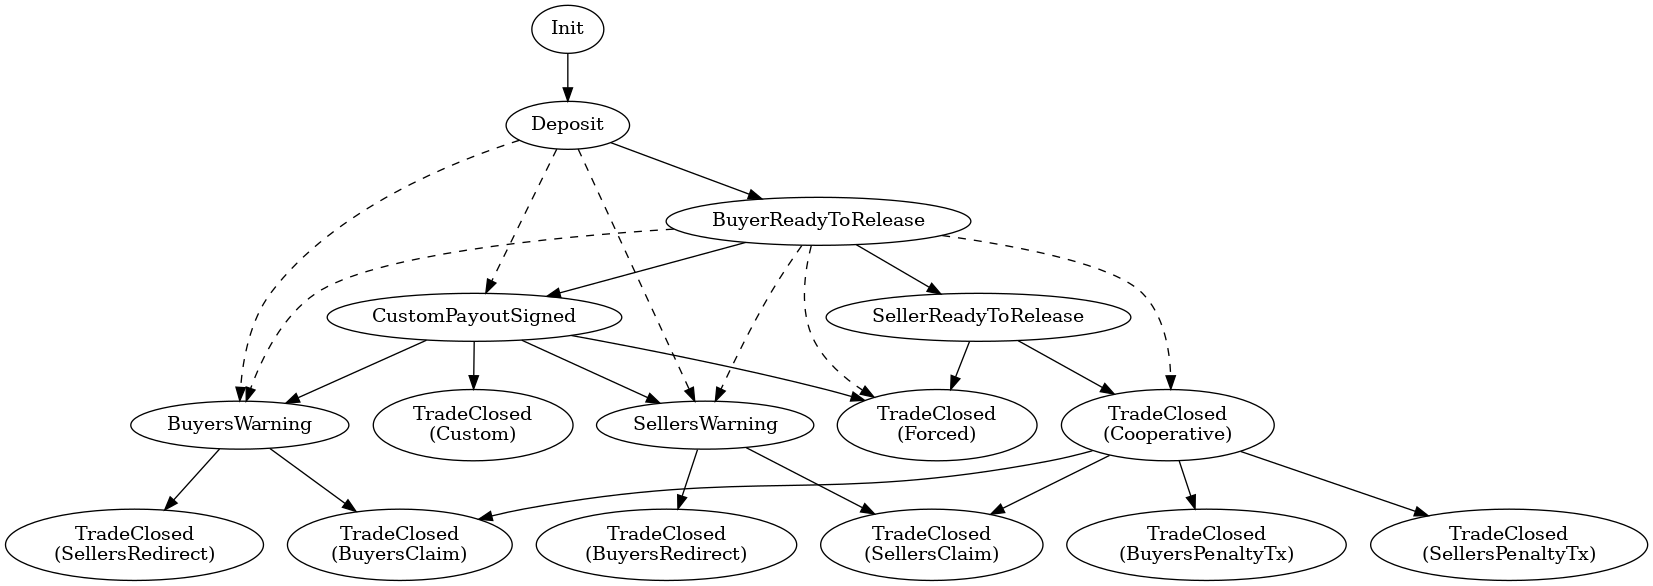
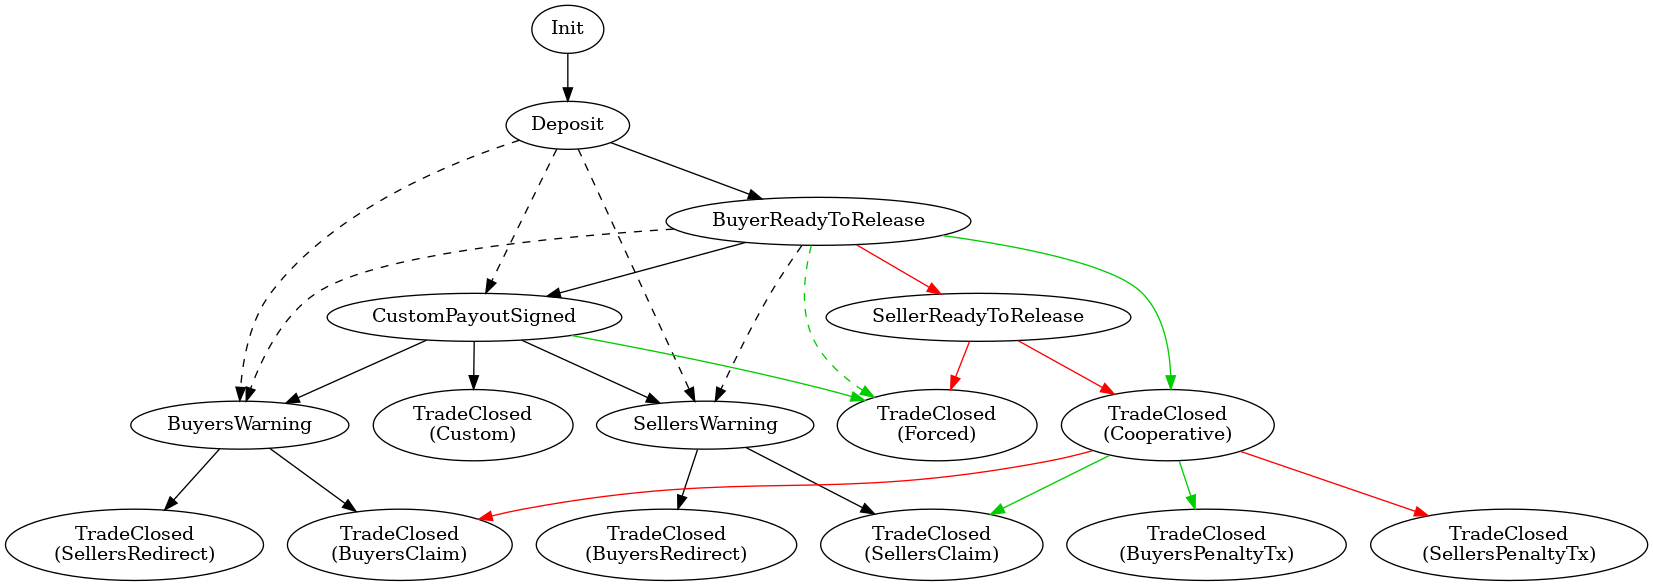
Give buyer & seller different DAGs of legal state transitions
Make buyer/seller distinction for trade state transition legality, via
two new methods, 'TradeState::precedes_for_(buyer|seller)', modifying
the calling 'TradeModel::update_state' method accordingly and changing
the 'ProtocolErrorKind::IllegalStateTransition' error message to include
the trade role. This should improve the safety of the 'TradeModel' API,
as some of the states (and transitions to/from them) are seller-/buyer-
only, such as 'SellerReadyForRelease' or 'TradeClosed(BuyersPenaltyTx)'.

Also colourise the full DAG rendering, 'trade_state_transitions.png',
along with its embedded DOT file, 'state::TRADE_STATE_TRANSITION_GRAPH',
to show which legal moves are buyer-only (green), seller-only (red), or
for use by either trader (black). Update the corresponding unit tests.

diff --git a/protocol/src/state.rs b/protocol/src/state.rs
@@ -70,6 +70,30 @@ impl TradeState {
         Self::TradeClosed(ClosureType::SellersPenaltyTx),
     ];
 
+    pub fn precedes_for_buyer(self, new_state: Self) -> bool {
+        use ClosureType::{BuyersClaim, Cooperative, SellersPenaltyTx};
+        use TradeState::{SellerReadyToRelease, TradeClosed};
+
+        match (self, new_state) {
+            (_, SellerReadyToRelease)
+            | (SellerReadyToRelease, _)
+            | (TradeClosed(Cooperative), TradeClosed(BuyersClaim | SellersPenaltyTx)) => false,
+            _ => self.precedes(new_state),
+        }
+    }
+
+    pub fn precedes_for_seller(self, new_state: Self) -> bool {
+        use ClosureType::{BuyersPenaltyTx, Cooperative, Forced, SellersClaim};
+        use TradeState::{BuyerReadyToRelease, CustomPayoutSigned, TradeClosed};
+
+        match (self, new_state) {
+            (BuyerReadyToRelease, TradeClosed(_))
+            | (CustomPayoutSigned, TradeClosed(Forced))
+            | (TradeClosed(Cooperative), TradeClosed(SellersClaim | BuyersPenaltyTx)) => false,
+            _ => self.precedes(new_state),
+        }
+    }
+
     pub fn precedes(self, new_state: Self) -> bool {
         self < new_state && new_state.minimal_predecessors().iter().any(|s| *s <= self)
     }
@@ -143,6 +167,15 @@ impl Display for TradeState {
     }
 }
 
+// Valid embedded DOT file for the full state transition DAG, which can be rendered by Graphviz.
+//
+// - Red arrows are state transitions valid only for the seller.
+// - Green arrows are state transitions valid only for the buyer.
+// - The remaining (black) arrows are state transitions valid for either trader.
+// - The arrows are dashed when the path between states is non-unique for a trader of fixed role.
+//   (This is not quite the same thing as transitivity/non-uniqueness for the DAG overall, as seen
+//   in the case of the `BuyerReadyToRelease -> TradeClosed(Cooperative)` transition, which has a
+//   unique path for the buyer, but there is a different path between those states for the seller.)
 #[cfg(test)]
 const TRADE_STATE_TRANSITION_GRAPH: &str = r#"digraph transitions {
     "Init" -> "Deposit"
@@ -150,26 +183,26 @@ const TRADE_STATE_TRANSITION_GRAPH: &str = r#"digraph transitions {
     "Deposit" -> "CustomPayoutSigned" [style=dashed]
     "Deposit" -> "BuyersWarning" [style=dashed]
     "Deposit" -> "SellersWarning" [style=dashed]
-    "BuyerReadyToRelease" -> "SellerReadyToRelease"
+    "BuyerReadyToRelease" -> "SellerReadyToRelease" [color=red]
     "BuyerReadyToRelease" -> "CustomPayoutSigned"
     "BuyerReadyToRelease" -> "BuyersWarning" [style=dashed]
     "BuyerReadyToRelease" -> "SellersWarning" [style=dashed]
-    "BuyerReadyToRelease" -> "TradeClosed\n(Cooperative)" [style=dashed]
-    "BuyerReadyToRelease" -> "TradeClosed\n(Forced)" [style=dashed]
-    "SellerReadyToRelease" -> "TradeClosed\n(Cooperative)"
-    "SellerReadyToRelease" -> "TradeClosed\n(Forced)"
+    "BuyerReadyToRelease" -> "TradeClosed\n(Cooperative)" [color=green3]
+    "BuyerReadyToRelease" -> "TradeClosed\n(Forced)" [style=dashed,color=green3]
+    "SellerReadyToRelease" -> "TradeClosed\n(Cooperative)" [color=red]
+    "SellerReadyToRelease" -> "TradeClosed\n(Forced)" [color=red]
     "CustomPayoutSigned" -> "BuyersWarning"
     "CustomPayoutSigned" -> "SellersWarning"
-    "CustomPayoutSigned" -> "TradeClosed\n(Forced)"
+    "CustomPayoutSigned" -> "TradeClosed\n(Forced)" [color=green3]
     "CustomPayoutSigned" -> "TradeClosed\n(Custom)"
     "BuyersWarning" -> "TradeClosed\n(SellersRedirect)"
     "BuyersWarning" -> "TradeClosed\n(BuyersClaim)"
     "SellersWarning" -> "TradeClosed\n(BuyersRedirect)"
     "SellersWarning" -> "TradeClosed\n(SellersClaim)"
-    "TradeClosed\n(Cooperative)" -> "TradeClosed\n(BuyersClaim)"
-    "TradeClosed\n(Cooperative)" -> "TradeClosed\n(SellersClaim)"
-    "TradeClosed\n(Cooperative)" -> "TradeClosed\n(BuyersPenaltyTx)"
-    "TradeClosed\n(Cooperative)" -> "TradeClosed\n(SellersPenaltyTx)"
+    "TradeClosed\n(Cooperative)" -> "TradeClosed\n(BuyersClaim)" [color=red]
+    "TradeClosed\n(Cooperative)" -> "TradeClosed\n(SellersClaim)" [color=green3]
+    "TradeClosed\n(Cooperative)" -> "TradeClosed\n(BuyersPenaltyTx)" [color=green3]
+    "TradeClosed\n(Cooperative)" -> "TradeClosed\n(SellersPenaltyTx)" [color=red]
 }
 "#;
 
@@ -181,9 +214,10 @@ mod tests {
 
     use super::*;
 
-    const EXPECTED_MINIMAL_DAG: &str = str_replace!(
+    const RELABELED_DAG: &str = str_replace!(TRADE_STATE_TRANSITION_GRAPH, "\\n", "");
+    const COLORED_MINIMAL_DAG: &str = str_replace!(
         str_replace!(
-            str_replace!(TRADE_STATE_TRANSITION_GRAPH, "\\n", ""),
+            RELABELED_DAG,
             "    \"Deposit\" -> \"CustomPayoutSigned\" [style=dashed]\n    \
                  \"Deposit\" -> \"BuyersWarning\" [style=dashed]\n    \
                  \"Deposit\" -> \"SellersWarning\" [style=dashed]\n",
@@ -191,41 +225,52 @@ mod tests {
         ),
         "    \"BuyerReadyToRelease\" -> \"BuyersWarning\" [style=dashed]\n    \
              \"BuyerReadyToRelease\" -> \"SellersWarning\" [style=dashed]\n    \
-             \"BuyerReadyToRelease\" -> \"TradeClosed(Cooperative)\" [style=dashed]\n    \
-             \"BuyerReadyToRelease\" -> \"TradeClosed(Forced)\" [style=dashed]\n",
+             \"BuyerReadyToRelease\" -> \"TradeClosed(Cooperative)\" [color=green3]\n    \
+             \"BuyerReadyToRelease\" -> \"TradeClosed(Forced)\" [style=dashed,color=green3]\n",
+        ""
+    );
+
+    const EXPECTED_MINIMAL_DAG: &str = str_replace!(
+        str_replace!(COLORED_MINIMAL_DAG, " [color=red]", ""),
+        " [color=green3]",
         ""
     );
     const EXPECTED_FULL_DAG: &str = str_replace!(
-        str_replace!(TRADE_STATE_TRANSITION_GRAPH, "\\n", ""),
-        " [style=dashed]",
+        str_replace!(RELABELED_DAG, " [style=dashed]", ""),
+        "style=dashed,",
         ""
     );
 
     #[test]
-    fn trade_state_partial_order_has_expected_minimal_dag() {
+    fn trade_state_partial_order_has_expected_minimal_dag() -> std::fmt::Result {
         let mut dag = "digraph transitions {\n".to_owned();
         for s in TradeState::VALUES {
             for t in TradeState::VALUES {
                 if s < t && TradeState::VALUES.into_iter().all(|u| !(s < u && u < t)) {
-                    writeln!(&mut dag, r#"    "{s}" -> "{t}""#).unwrap();
+                    writeln!(&mut dag, r#"    "{s}" -> "{t}""#)?;
                 }
             }
         }
-        writeln!(&mut dag, "}}").unwrap();
+        writeln!(&mut dag, "}}")?;
         assert_eq!(dag, EXPECTED_MINIMAL_DAG);
+        Ok(())
     }
 
     #[test]
-    fn trade_state_has_expected_full_dag() {
+    fn trade_state_has_expected_full_dag() -> std::fmt::Result {
         let mut dag = "digraph transitions {\n".to_owned();
         for s in TradeState::VALUES {
             for t in TradeState::VALUES {
-                if s.precedes(t) {
-                    writeln!(&mut dag, r#"    "{s}" -> "{t}""#).unwrap();
+                match (s.precedes_for_buyer(t), s.precedes_for_seller(t)) {
+                    (false, true) => writeln!(&mut dag, r#"    "{s}" -> "{t}" [color=red]"#)?,
+                    (true, false) => writeln!(&mut dag, r#"    "{s}" -> "{t}" [color=green3]"#)?,
+                    (true, true) => writeln!(&mut dag, r#"    "{s}" -> "{t}""#)?,
+                    _ => assert!(!s.precedes(t)),
                 }
             }
         }
-        writeln!(&mut dag, "}}").unwrap();
+        writeln!(&mut dag, "}}")?;
         assert_eq!(dag, EXPECTED_FULL_DAG);
+        Ok(())
     }
 }

diff --git a/rpc/src/protocol.rs b/rpc/src/protocol.rs
@@ -56,7 +56,7 @@ pub struct TradeModel {
     seller_txs: ArbitrationTxs,
 }
 
-#[derive(Default, Eq, PartialEq)]
+#[derive(Copy, Clone, Eq, PartialEq, Default, Debug)]
 pub enum Role {
     #[default] SellerAsMaker,
     SellerAsTaker,
@@ -202,12 +202,14 @@ impl TradeModel {
         if self.state >= new_state {
             return Ok(false);
         }
-        if !self.state.precedes(new_state) {
-            return Err(ProtocolErrorKind::IllegalStateTransition { current: self.state, new_state });
+        let (role, old_state) = (self.my_role, self.state);
+        if self.am_buyer() && !self.state.precedes_for_buyer(new_state) ||
+            !self.am_buyer() && !self.state.precedes_for_seller(new_state) {
+            return Err(ProtocolErrorKind::IllegalStateTransition { role, old_state, new_state });
         }
         // FIXME: Persist the trade model together with its updated state. Assuming asynchronous
         //  persistence, we must ensure that the old state continues to be observed meanwhile.
-        info!(trade_id = self.trade_id, old_state = %self.state, %new_state, "Updating trade state.");
+        info!(trade_id = self.trade_id, %old_state, %new_state, "Updating trade state.");
         self.state = new_state;
         Ok(true)
     }
@@ -825,11 +827,11 @@ pub enum ProtocolErrorKind {
     MissingTradeWallet,
     #[error("missing script key")]
     MissingScriptKey,
-    #[error("illegal state transition: {current:?} -> {new_state:?}")]
-    IllegalStateTransition { current: TradeState, new_state: TradeState },
-    #[error("insufficient redirection funds (available {available_msat:?} msat, used {used_msat:?} msat)")]
+    #[error("illegal state transition for {role:?}: {old_state} -> {new_state}")]
+    IllegalStateTransition { role: Role, old_state: TradeState, new_state: TradeState },
+    #[error("insufficient redirection funds (available {available_msat} msat, used {used_msat} msat)")]
     InsufficientRedirectionFunds { available_msat: u64, used_msat: u64 },
-    #[error("excess redirection funds (available {available_msat:?} msat, used {used_msat:?} msat)")]
+    #[error("excess redirection funds (available {available_msat} msat, used {used_msat} msat)")]
     ExcessRedirectionFunds { available_msat: u64, used_msat: u64 },
     AddressParse(#[from] bdk_wallet::bitcoin::address::ParseError),
     Transaction(#[from] protocol::transaction::TransactionErrorKind),